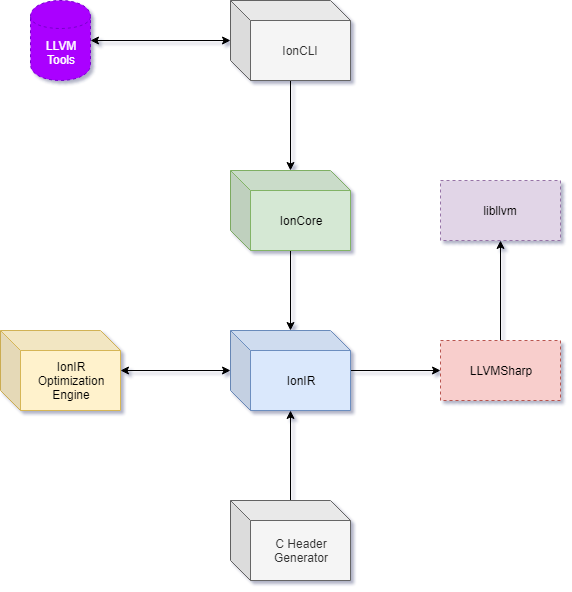
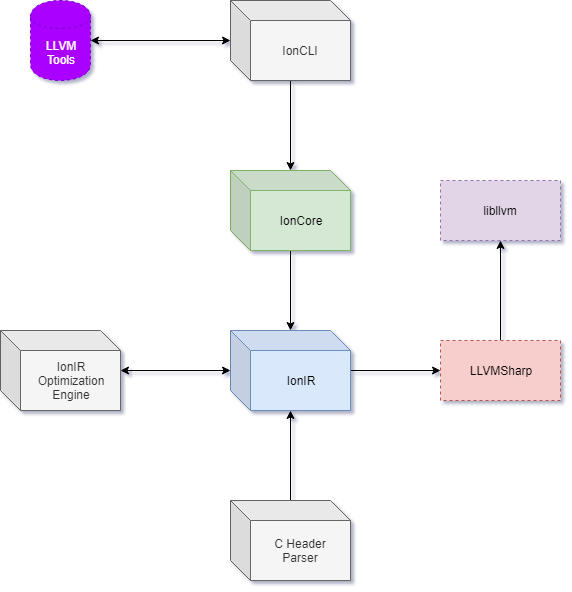
Improve workflow section

Changed region(s): [[0.0, 0.5473, 0.2378, 0.6993], [0.4755, 0.9122, 0.5647, 0.973]]

diff --git a/README.md b/README.md
@@ -215,3 +215,36 @@ Below is a diagram of the future workflow implementation of the project.
 
 <br />
 <img src="assets/workflow.png" />
+
+Below is a diagram of the different stages that the compilation process undergoes before reaching final executable form.
+
+<br />
+<img src="assets/stages.png" />
+
+#### libllvm
+
+libllvm is the C LLVM library used by LLVMSharp.
+
+#### LLVMSharp
+
+LLVMSharp is an external NuGet package that provides the C# bindings of the C LLVM library to all projects that require it.
+
+#### IonIR
+
+The Ion.IR repository allows creation, manipulation and generation of Ion's intermediate representation language named `IonIR`.
+
+The Ion.IR repository plays a vital role in the project. Ion.IR's simple API implementation allows for efficient and easy manipulation of IonIR code. Compared to the Ion language, IonIR code is much simpler, concise and condensed. This is key because it strips the need of handling Ion's complex, abstracted syntax.
+
+The Ion.IR repository is the last step of program compilation. Code generation is handled here through the C# LLVM library bindings.
+
+#### IonCLI
+
+The Ion.CLI project serves multiple essential purposes:
+
+1. LLVM toolchain wrapper
+2. Ion code compilation CLI utility
+3. Package management
+
+Since LLVM's functionality of LLVM IR to Bitcode compilation is only available through its executable tools, releases are forced to package the compiled LLVM tools.
+
+The Ion.CLI repository manages and oversees the execution of these tools.
